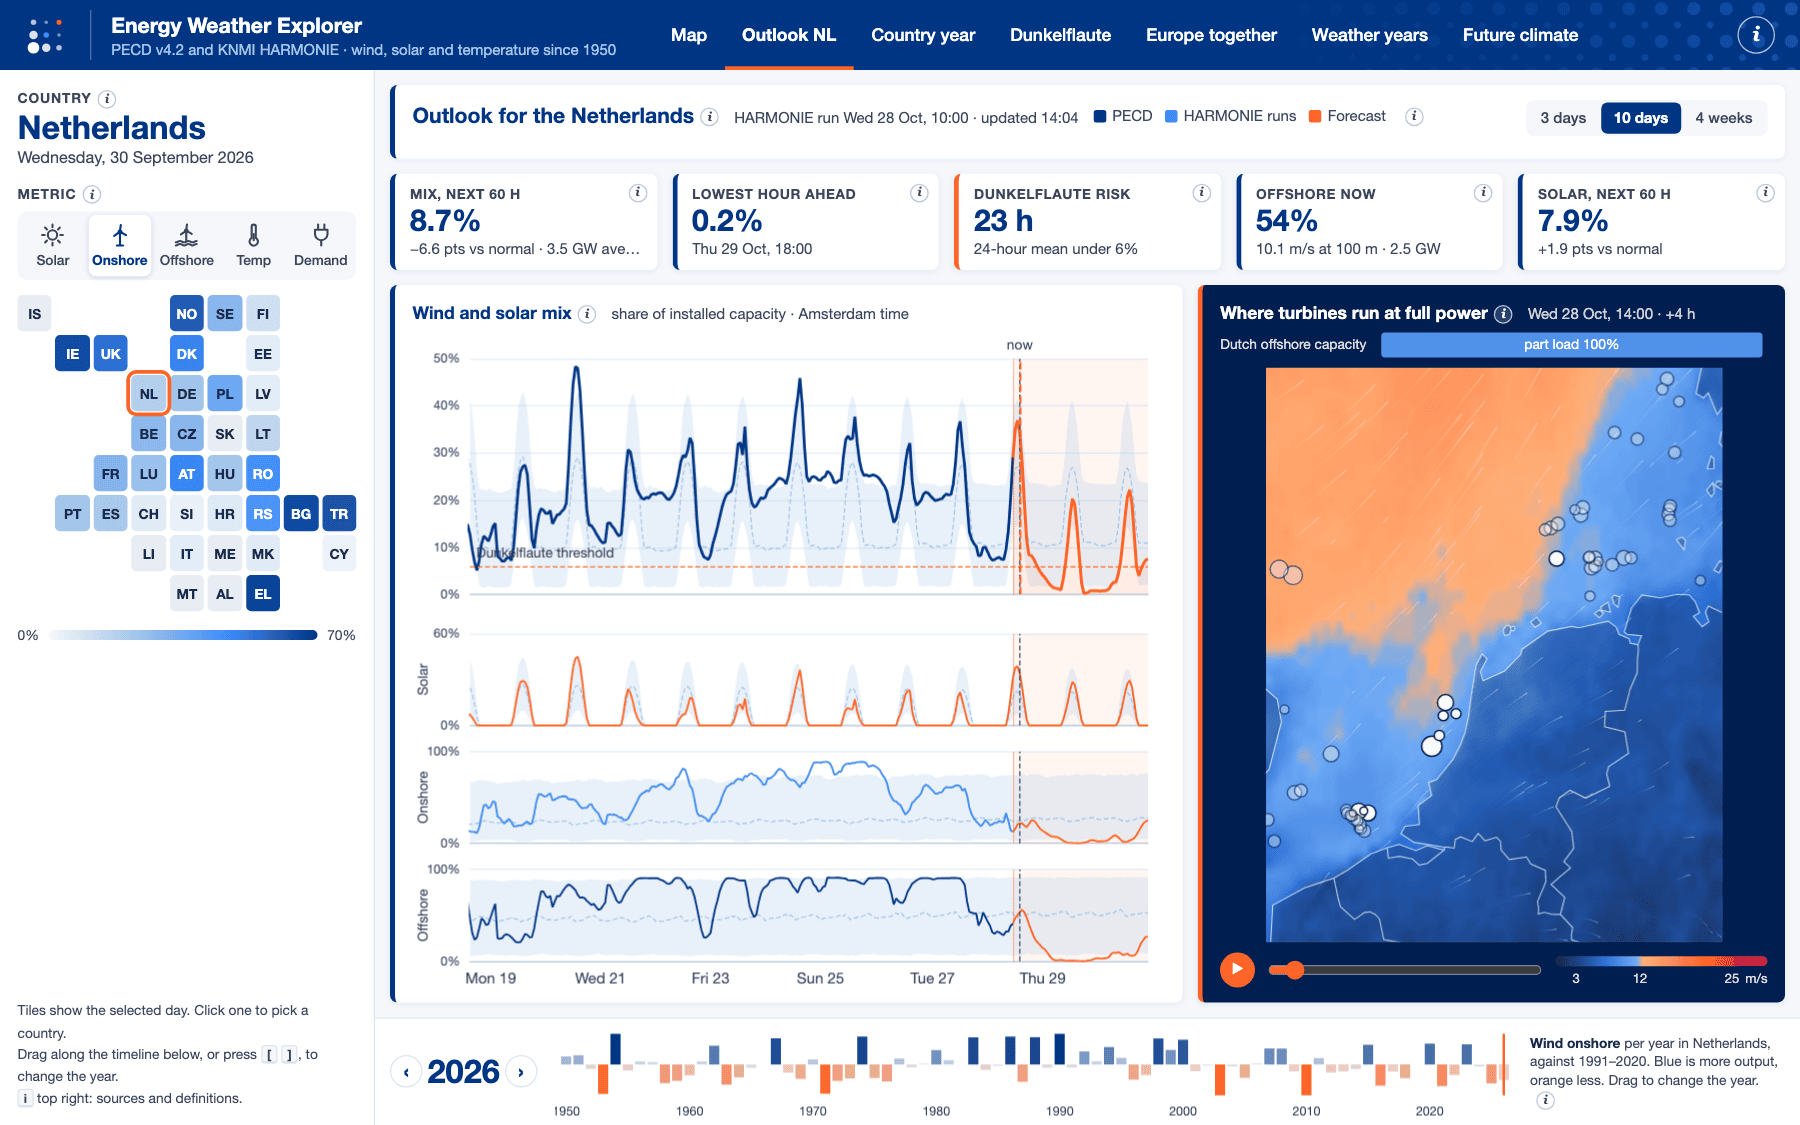
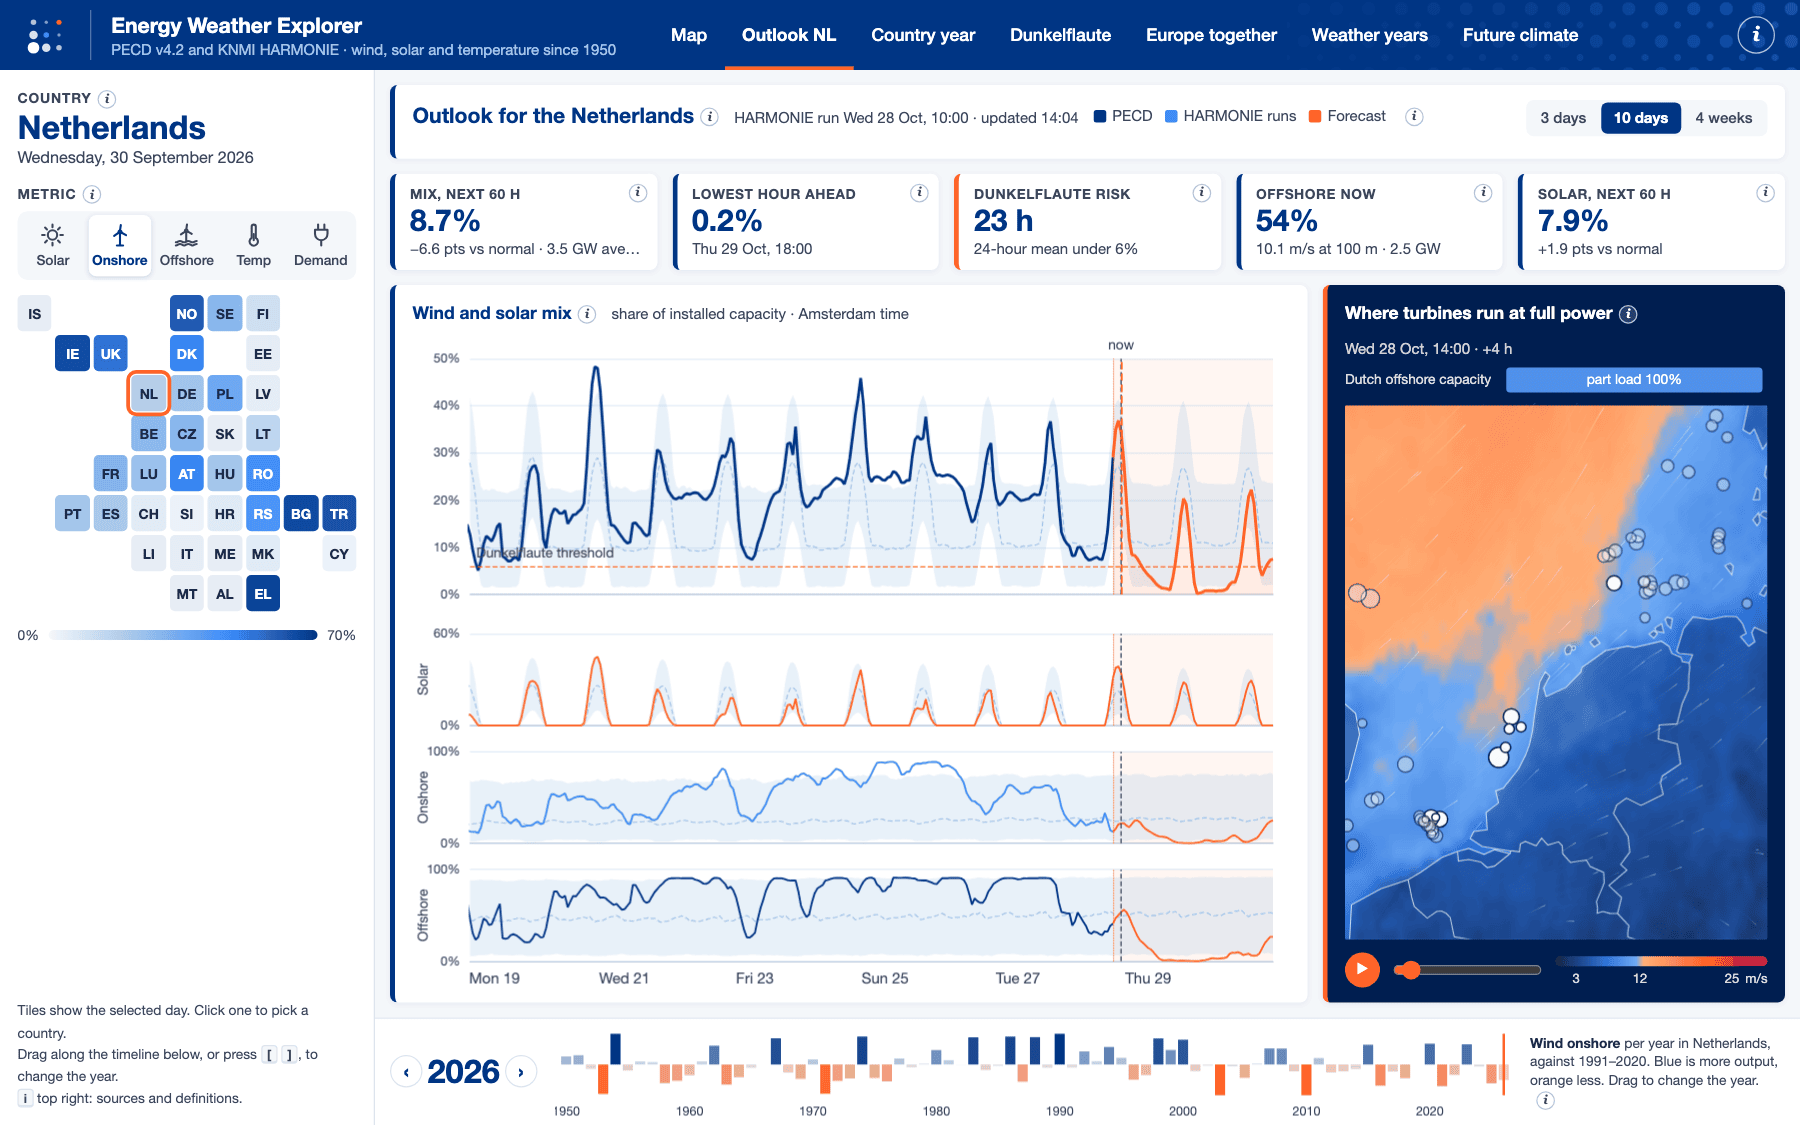
Size the wind map panel to the map, so the chart gets the rest of the width

Changed region(s): [[0.2489, 0.2489, 0.9956, 0.9022], [0.4978, 0.84, 0.5289, 0.8711], [0.3111, 0.84, 0.3422, 0.8711]]

diff --git a/src/views/outlook.js b/src/views/outlook.js
@@ -46,7 +46,7 @@ export async function renderOutlook(root, state, alive) {
     : "";
 
   root.innerHTML = `
-    <div class="view outlook" style="grid-template-columns:minmax(0,1.35fr) minmax(0,1fr);grid-template-rows:auto auto minmax(0,1fr)">
+    <div class="view outlook" style="grid-template-columns:minmax(0,1fr) var(--map-w, 36%);grid-template-rows:auto auto minmax(0,1fr)">
       <section class="panel" style="grid-column:1/-1">
         <div class="panel-head">
           <h2>Outlook for the Netherlands${tip("Wind and solar output of the Dutch fleet over the past weeks and the next 60 hours. The past comes from PECD where it is published, then from the first day of earlier HARMONIE runs; the future is the newest KNMI HARMONIE forecast. Weather is turned into capacity factors with curves fitted on ERA5 against PECD, and HARMONIE is scaled to reproduce PECD, so all parts are on the same scale as the rest of the app." + skill)}</h2>
@@ -227,6 +227,18 @@ export async function renderOutlook(root, state, alive) {
       hover.innerHTML = h.farm ? `<b>${h.farm.name}</b><br>${h.farm.mw} MW · since ${h.farm.since}<br>${wind}` : wind;
     },
   });
+  // The map column is as wide as the map at the height it gets, so there are no empty bands beside it.
+  const view = root.querySelector(".outlook");
+  const panel = root.querySelector(".map-panel");
+  const fitMap = () => {
+    const extra = panel.clientWidth - mapEl.clientWidth;
+    const width = Math.round(mapEl.clientHeight * map.aspect + extra);
+    view.style.setProperty("--map-w", `${Math.max(300, Math.min(width, view.clientWidth * 0.5))}px`);
+  };
+  const fitObserver = new ResizeObserver(fitMap);
+  fitObserver.observe(view);
+  fitMap();
+
   const frameTime = (f) => runT + f * HOUR;
   function showFrame(f, fromChart) {
     map.setFrame(f);
@@ -273,6 +285,7 @@ export async function renderOutlook(root, state, alive) {
   return {
     dispose() {
       stop();
+      fitObserver.disconnect();
       map.destroy();
     },
   };

diff --git a/src/windmap.js b/src/windmap.js
@@ -270,6 +270,8 @@ export function createWindMap(container, { field, wind, geo, farms, onHover }) {
 
   return {
     frames,
+    // Width over height of the field as drawn, to size the panel around it.
+    aspect: (lon1 - lon0) / ((lat1 - lat0) / kx),
     setFrame(i) {
       frame = Math.max(0, Math.min(frames - 1, i));
       drawField();
